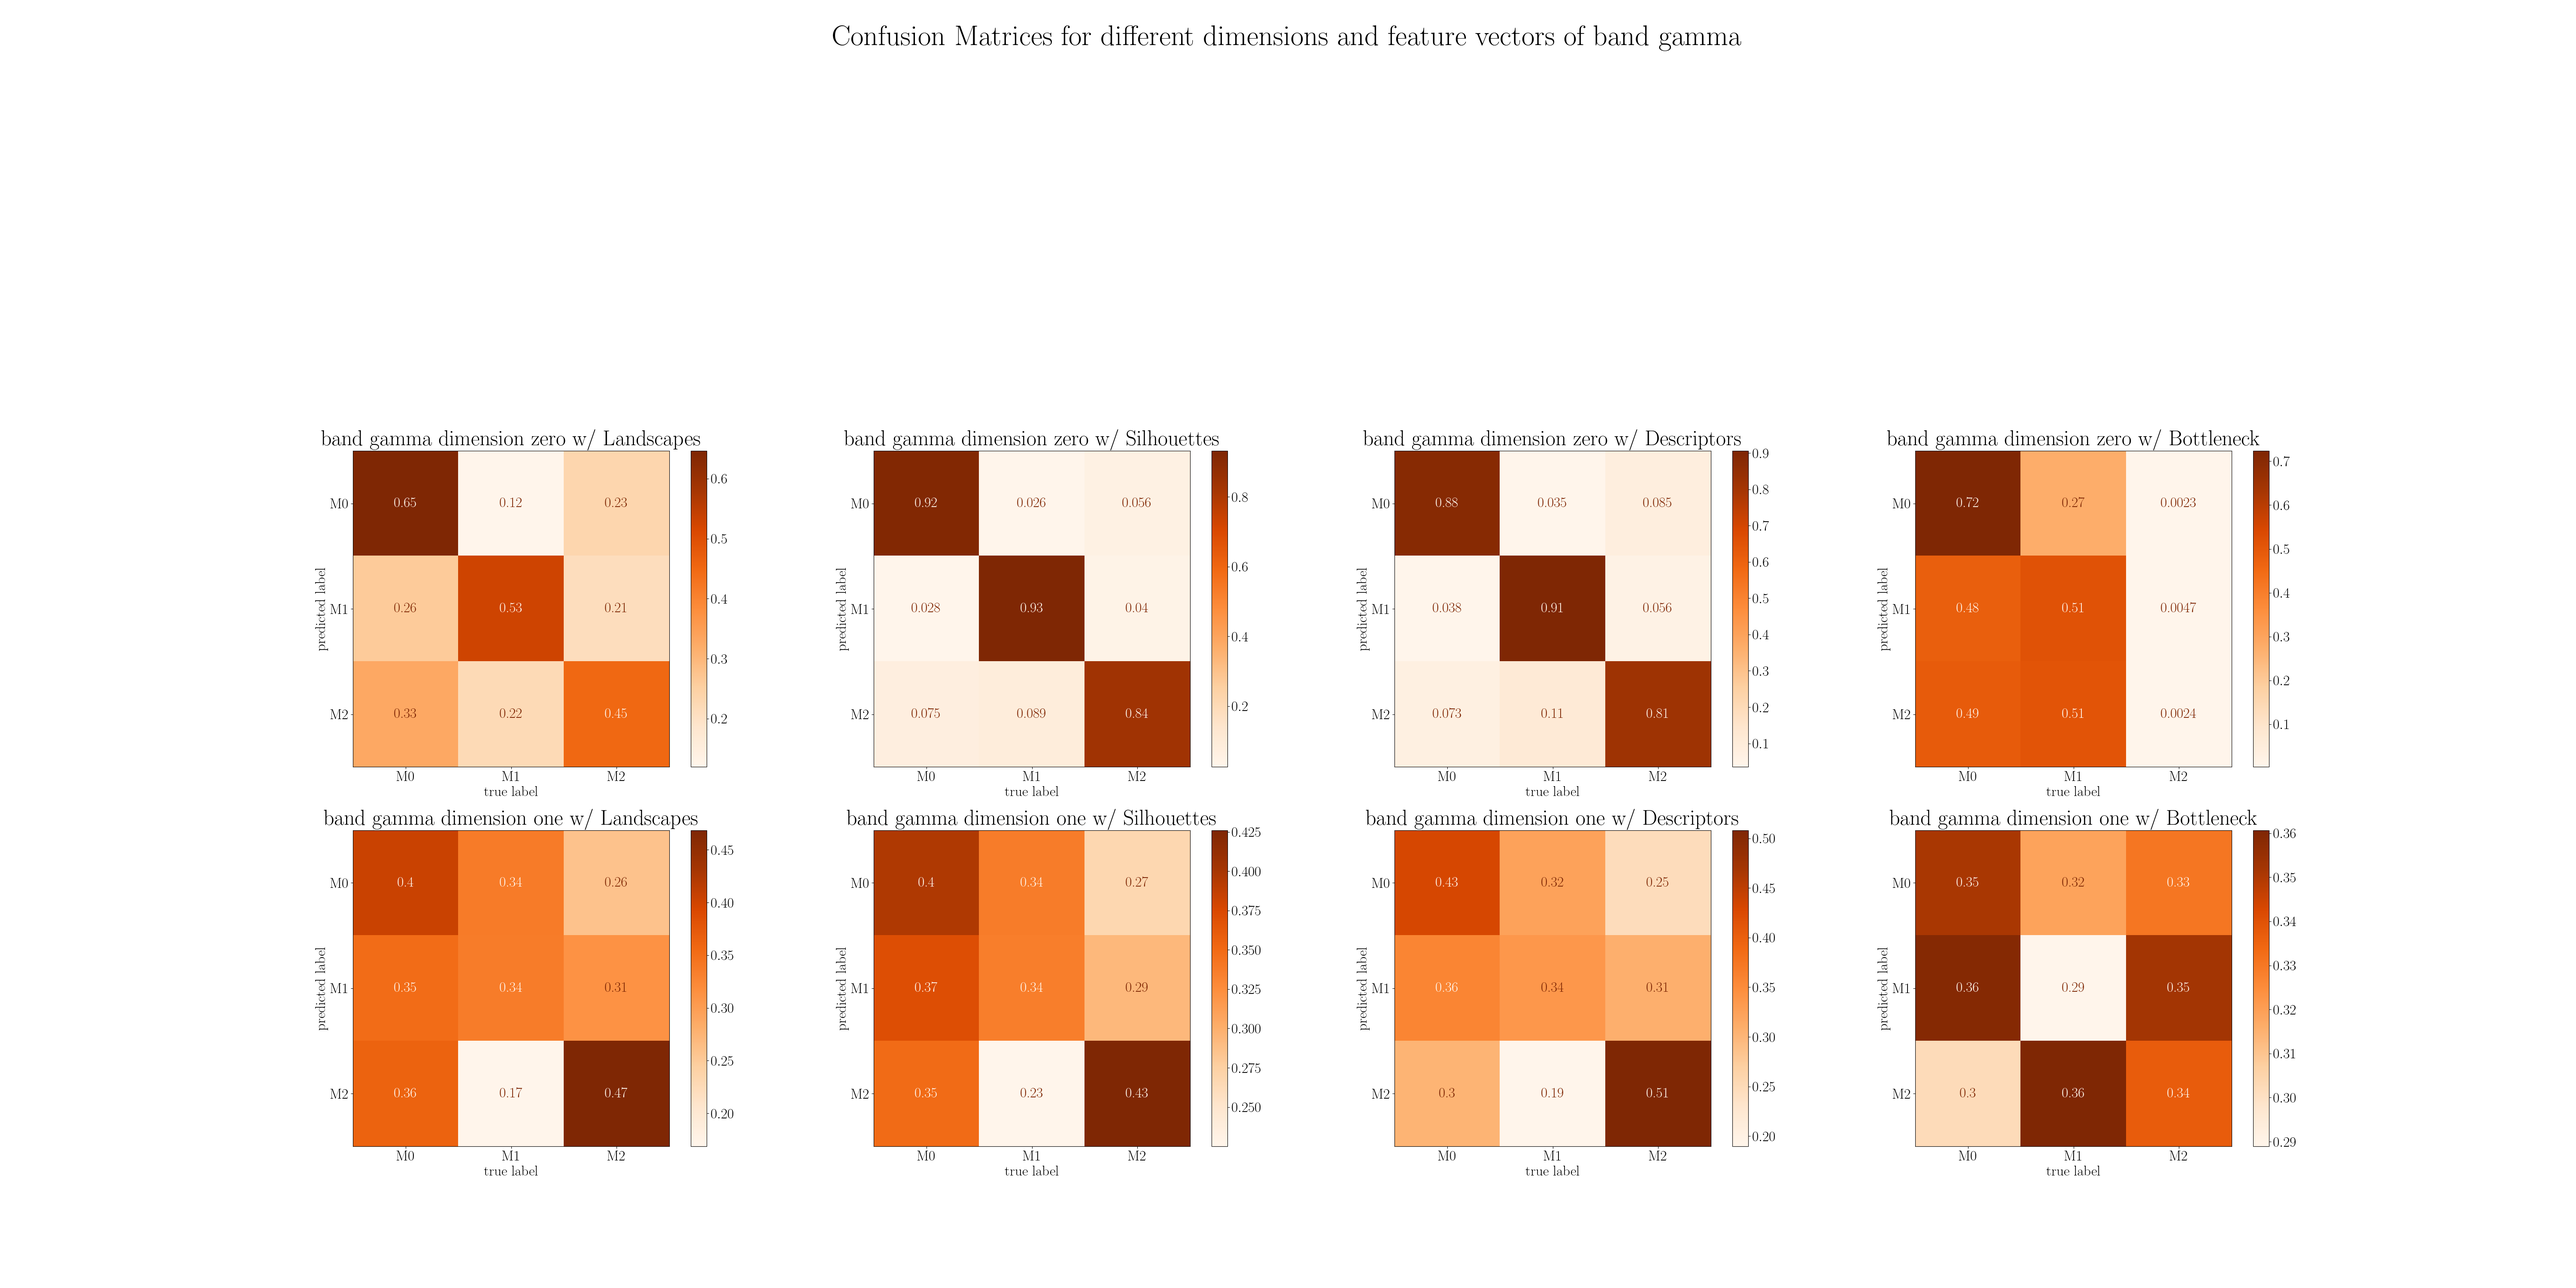
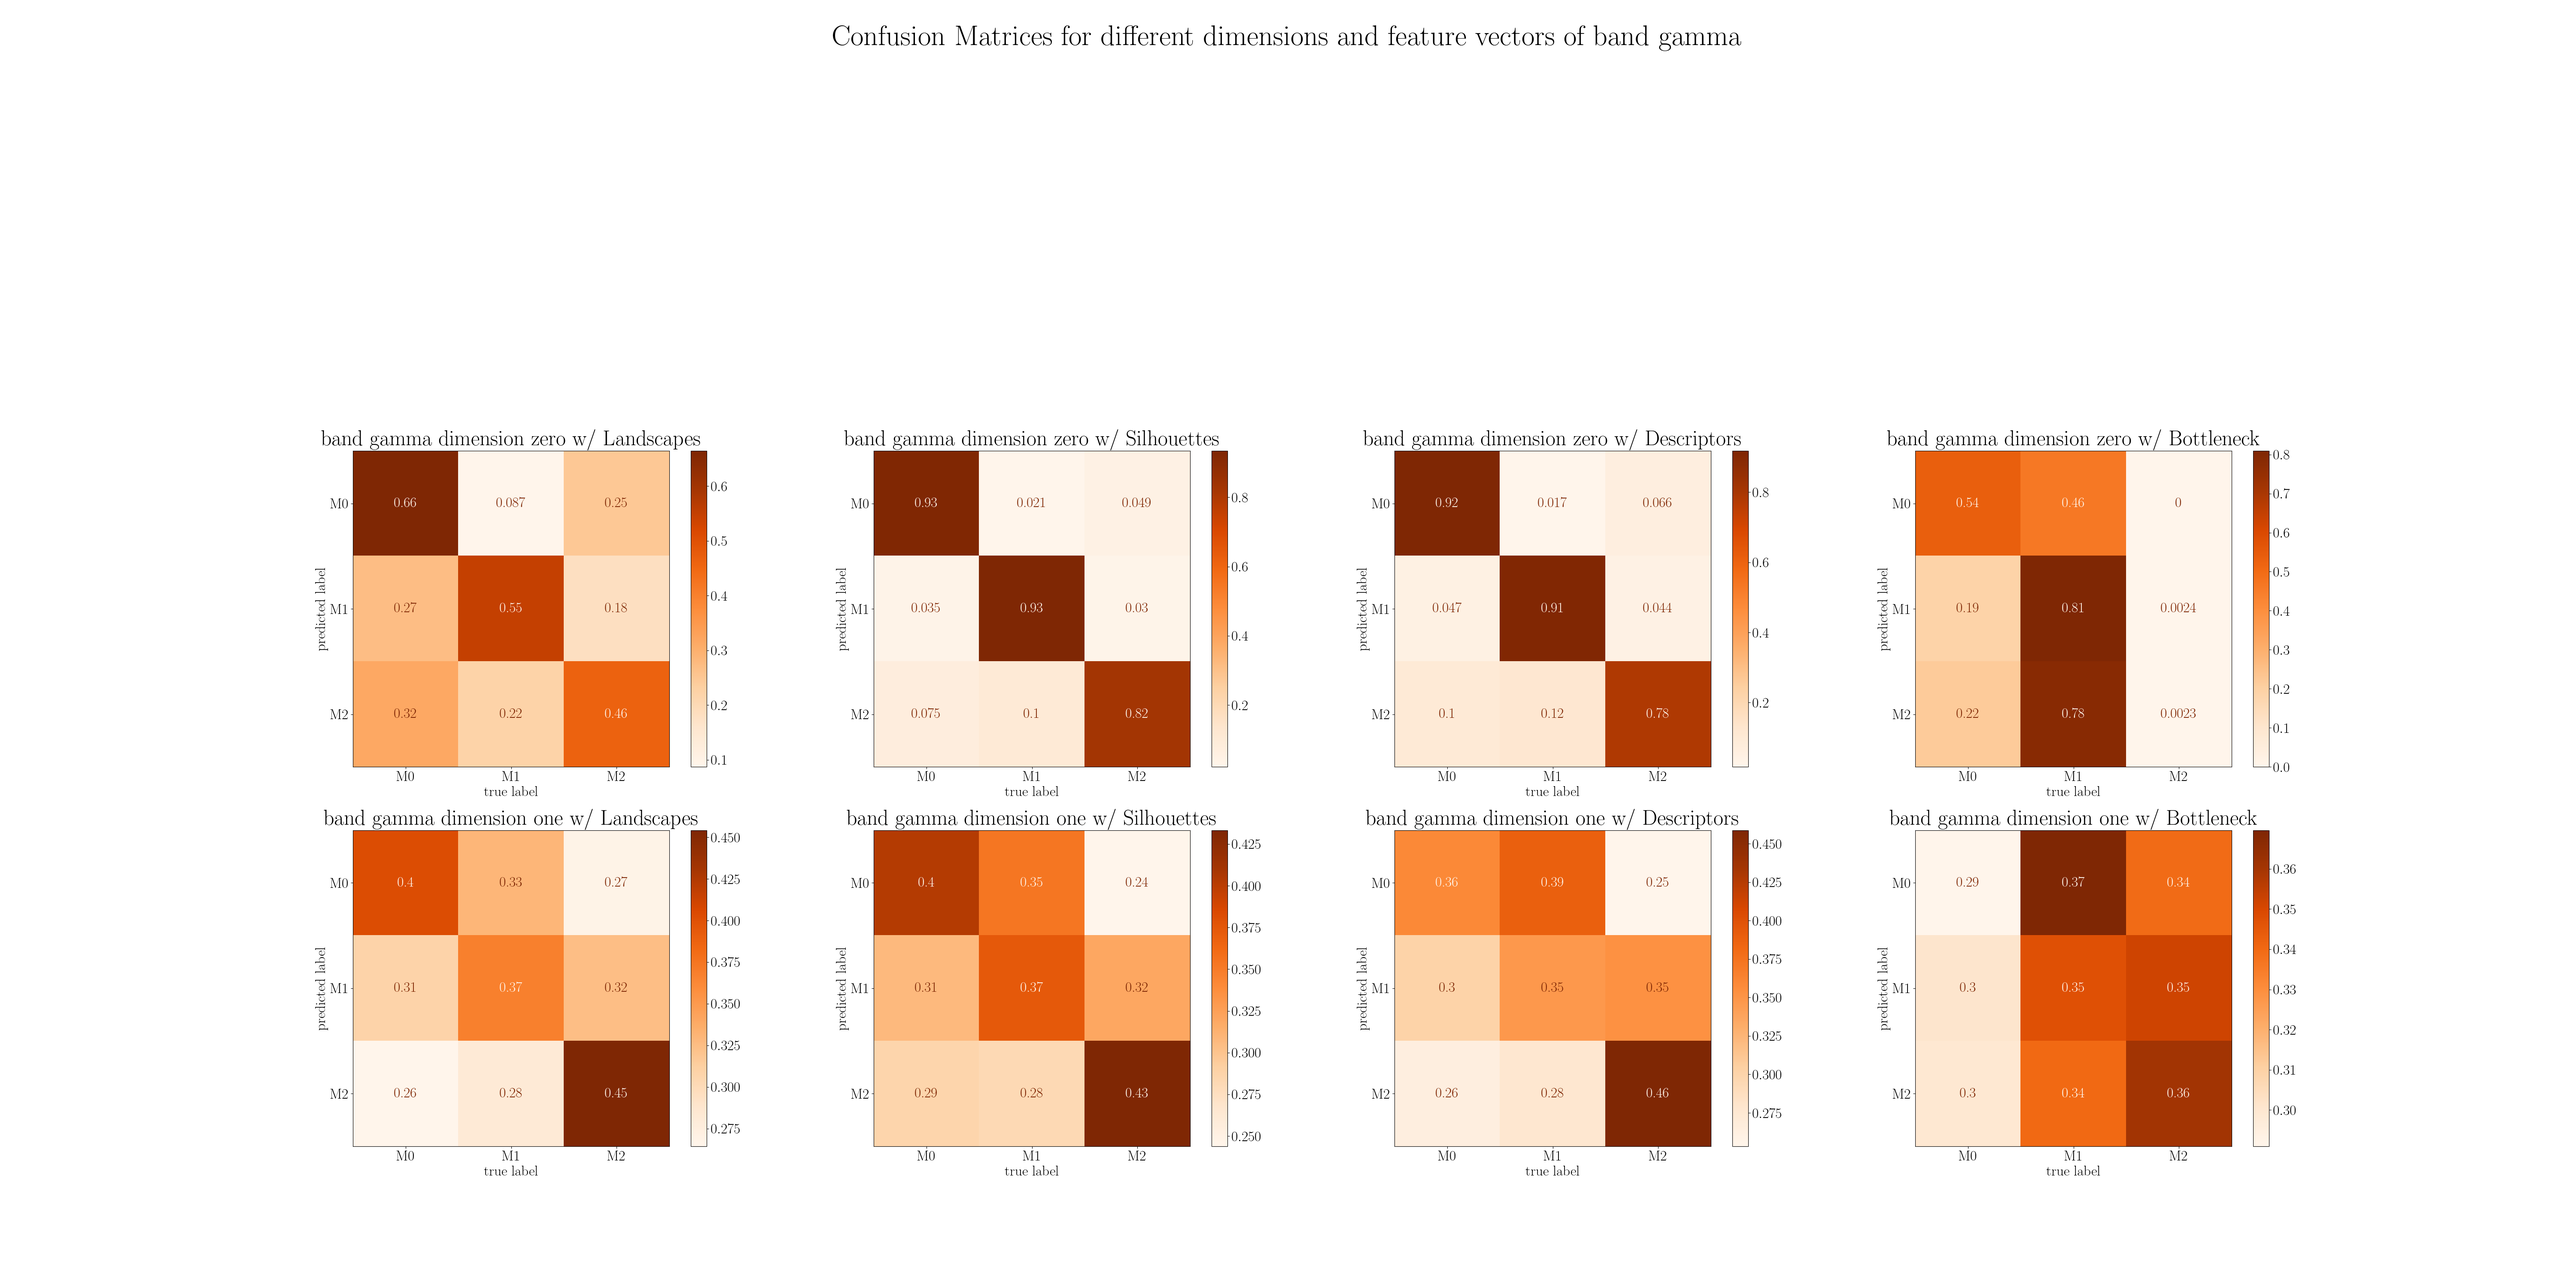
taula corregida

diff --git a/table.py b/table.py
@@ -58,7 +58,7 @@ def load_data(i_sub,space='both'):
 
 if __name__ == "__main__":
 
-    subjects=list(range(25,28 )) 
+    subjects=list(range(25,36)) 
 
     bloc_dic={}
     bloc_subj_dic={}
